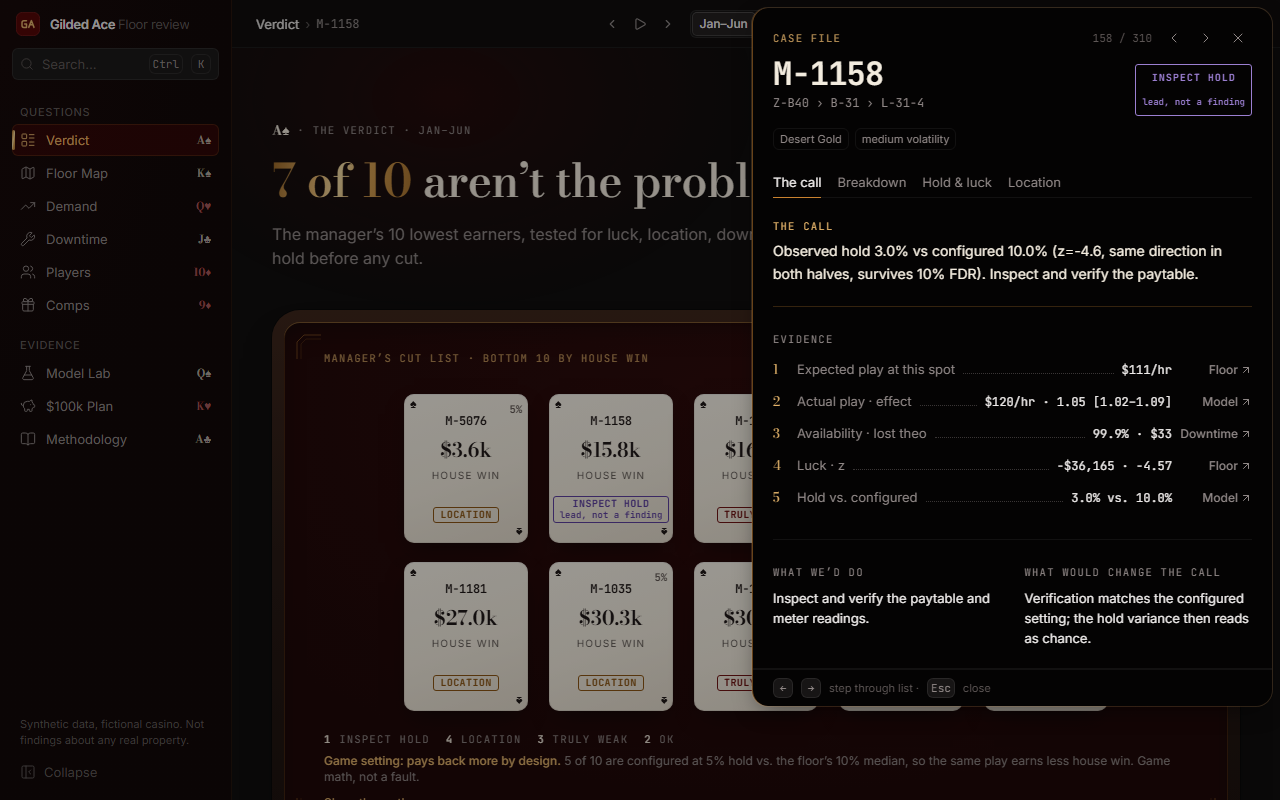
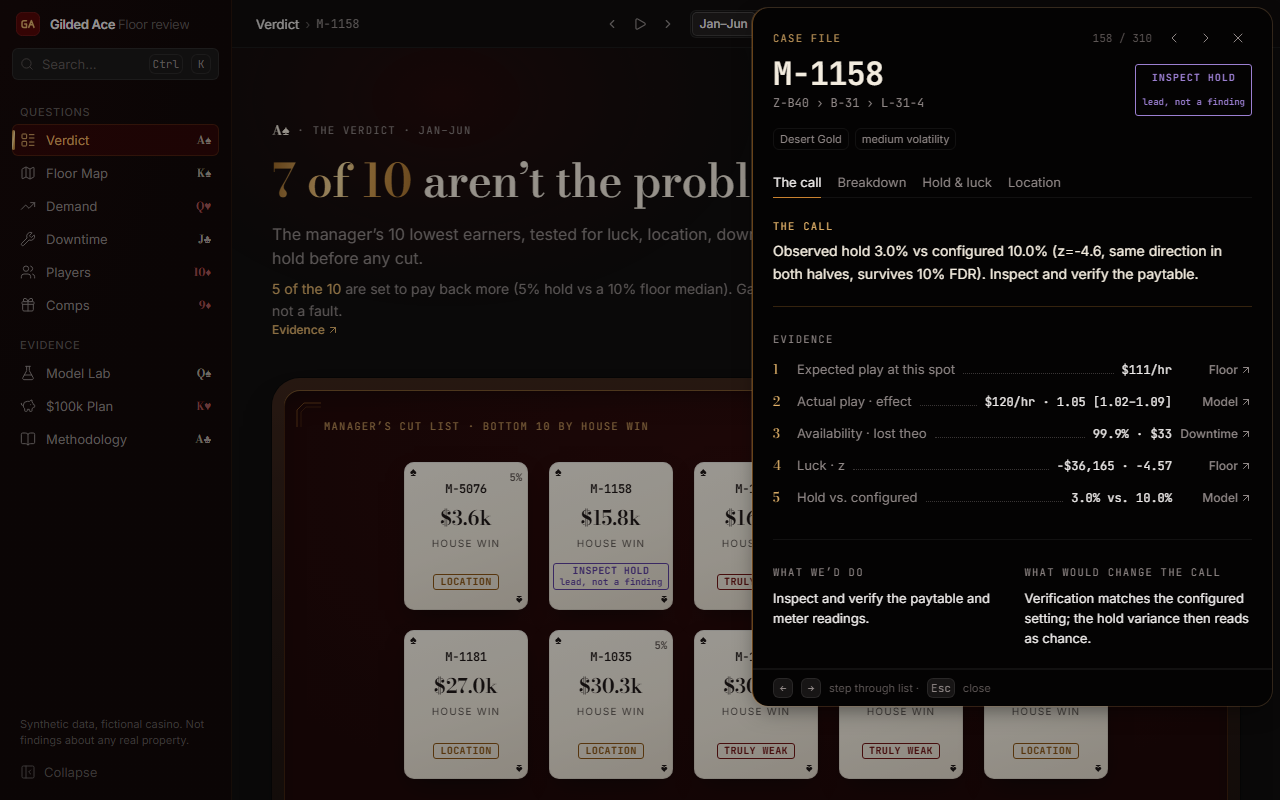
feat: pre-M9 — flip-only first reveal, game-setting hero line, zone ledger, move-test VOI sensitivity

Changed region(s): [[0.1875, 0.3438, 0.9062, 1.0], [0.25, 0.5312, 0.2812, 0.5625]]

diff --git a/web/src/screens/FloorMap.tsx b/web/src/screens/FloorMap.tsx
@@ -162,8 +162,8 @@ export default function FloorMap() {
         eyebrow={`Floor map · ${PERIOD_LONG[f.period] ?? f.period}`}
         title={
           <>
-            <GoldNumber className="font-semibold">{String(notOk)}</GoldNumber> of {scoped.length} machines{f.zone || f.bank ? ` ${scope}` : ""} have
-            a reason besides weak play
+            <GoldNumber className="font-semibold">{String(notOk)}</GoldNumber> of {scoped.length} machines
+            {f.zone || f.bank ? ` ${scope}` : ""} have a reason besides weak play
           </>
         }
         sub="Each mark is a machine. Click a bank to filter every screen, a machine for its case file."
@@ -177,7 +177,7 @@ export default function FloorMap() {
         <svg
           ref={svg}
           viewBox={`0 0 ${W} ${H}`}
-          className="relative block h-[min(56vh,540px)] w-full cursor-grab active:cursor-grabbing"
+          className="relative block h-[min(56vh,540px)] w-full cursor-grab active:cursor-grabbing xl:w-[calc(100%-250px)]"
           role="img"
           aria-label="Casino floor with machines colored by verdict"
           onClick={() => setTip(null)}
@@ -421,6 +421,14 @@ export default function FloorMap() {
           </span>
         </div>
 
+        <ZoneLedger
+          zones={geo.hulls.map((h) => {
+            const zr = all.filter((r) => r.zone_id === h.z);
+            return { z: h.z, name: h.name, n: zr.length, flag: zr.filter((r) => r.verdict !== "ok" && r.verdict !== "truly_weak").length };
+          })}
+          active={f.zone}
+          onPick={(z) => setF({ zone: f.zone === z ? null : z, bank: null })}
+        />
         {/* minimap */}
         <Minimap geo={geo} t={t} />
       </section>
@@ -567,4 +575,50 @@ function Glyph({ v, x, y, r, fill, ring = false }: { v: Verdict; x: number; y: n
     default:
       return <circle cx={x} cy={y} r={r * 0.75} {...common} />;
   }
+}
+
+/** Right rail on wide screens: machines with a reason besides weak play, by zone. Click to filter every screen. */
+function ZoneLedger({
+  zones,
+  active,
+  onPick,
+}: {
+  zones: { z: string; name: string; n: number; flag: number }[];
+  active: string | null;
+  onPick: (z: string) => void;
+}) {
+  const max = Math.max(...zones.map((z) => z.flag), 1);
+  return (
+    <div className="absolute right-6 top-20 hidden w-[218px] xl:block" data-testid="zone-ledger">
+      <p className="label-sc mb-2 text-gold-soft/80">By zone · reason besides weak play</p>
+      <ul className="flex flex-col gap-0.5">
+        {[...zones]
+          .sort((a, b) => b.flag - a.flag)
+          .map((z) => (
+            <li key={z.z}>
+              <button
+                type="button"
+                onClick={() => onPick(z.z)}
+                aria-pressed={active === z.z}
+                className={cn(
+                  "focus-ring grid w-full grid-cols-[1fr_auto] items-center gap-x-2 rounded-sm px-2 py-1 text-left text-xs transition-colors duration-hover",
+                  active === z.z
+                    ? "bg-black/35 text-ivory ring-1 ring-inset ring-gold/30"
+                    : "text-fg-muted hover:bg-black/20 hover:text-fg",
+                )}
+              >
+                <span className="truncate">{z.name}</span>
+                <span className="mono text-ivory">
+                  {z.flag}
+                  <span className="text-fg-subtle">/{z.n}</span>
+                </span>
+                <span className="col-span-2 mt-1 h-[3px] rounded-full bg-black/30" aria-hidden>
+                  <span className="block h-full rounded-full bg-gold-soft/60" style={{ width: `${(z.flag / max) * 100}%` }} />
+                </span>
+              </button>
+            </li>
+          ))}
+      </ul>
+    </div>
+  );
 }

diff --git a/web/src/screens/BudgetPlan.tsx b/web/src/screens/BudgetPlan.tsx
@@ -10,11 +10,27 @@ import { useJson } from "../lib/useData";
 
 type Cmp = { cost_usd: number; theo_mid_usd: number; voi_usd: number; value_usd: number };
 type MoveTest = {
-  sizing: { swaps: number; moves: number; cost_usd: number; halfwidth: number; theo_mid_usd: number }[];
+  sizing: {
+    swaps: number;
+    moves: number;
+    cost_usd: number;
+    halfwidth: number;
+    halfwidth_noise_only: number;
+    halfwidth_tau_peer: number;
+    theo_mid_usd: number;
+  }[];
   power: { post_days: number };
-  pick: { swaps: number };
+  pick: { swaps: number; halfwidth: number; halfwidth_noise_only: number; halfwidth_tau_peer: number };
   voi_usd: number;
-  comparison: { move_test: Cmp; lowest: Cmp & { action_type_id: string }; replaces: string | null; errors: string[]; included: boolean };
+  voi_usd_tau_peer?: number;
+  comparison: {
+    move_test: Cmp & { value_usd_tau_peer?: number };
+    lowest: Cmp & { action_type_id: string };
+    replaces: string | null;
+    errors: string[];
+    included: boolean;
+    included_tau_peer?: boolean;
+  };
 };
 type Budget = {
   rules: { total_usd: number; horizon_days: number; max_action_types: number };
@@ -209,6 +225,20 @@ function MoveTestCompare({ mt }: { mt: MoveTest }) {
         Picked {mt.pick.swaps} swaps: the fewest with ≥ 3 swaps (so no single move carries the estimate) and a planned interval within ±0.2.
         Intervals are simulated from real same-bank play over {mt.power.post_days} operating days, plus machine-to-machine variation fitted
         to the 4 observed moves.
+      </p>
+      <p className="mt-2 text-xs text-fg-muted" data-testid="move-test-width">
+        Planned interval at {mt.pick.swaps} swaps: <span className="mono text-ivory">±{mt.pick.halfwidth.toFixed(2)}</span> with
+        machine-to-machine variation (noise alone ±{mt.pick.halfwidth_noise_only.toFixed(2)}). The information value uses this realistic
+        width.
+        {mt.voi_usd_tau_peer != null && c.move_test.value_usd_tau_peer != null && (
+          <>
+            {" "}
+            With the wider peer-calibrated variation (±{mt.pick.halfwidth_tau_peer.toFixed(2)}), information value is{" "}
+            {fmt.usdK(mt.voi_usd_tau_peer)} and the test {c.included_tau_peer ? "still" : "would no longer"} beat
+            {c.included_tau_peer ? "s" : ""} {c.lowest.action_type_id} ({fmt.usdK(c.move_test.value_usd_tau_peer)} vs.{" "}
+            {fmt.usdK(c.lowest.value_usd)}).
+          </>
+        )}
       </p>
     </Tile>
   );

diff --git a/web/src/screens/Verdict.tsx b/web/src/screens/Verdict.tsx
@@ -105,7 +105,23 @@ export default function Verdict() {
             <GoldNumber className="font-semibold">{`${notWeak.length} of ${mgr.length}`}</GoldNumber> aren&rsquo;t the problem
           </>
         }
-        sub={<>The manager&rsquo;s {mgr.length} lowest earners, tested for luck, location, downtime and hold before any cut.</>}
+        sub={
+          <>
+            The manager&rsquo;s {mgr.length} lowest earners, tested for luck, location, downtime and hold before any cut.
+            {lowN > 0 && rules && (
+              <span className="mt-2 flex flex-wrap items-baseline gap-x-3 text-base" data-testid="game-setting">
+                <span>
+                  <span className="text-gold-soft">
+                    {lowN} of the {mgr.length}
+                  </span>{" "}
+                  are set to pay back more ({fmt.pct(rules.low_hold_design, 0)} hold vs a {fmt.pct(rules.floor_median_hold, 0)} floor
+                  median). Game math, not a fault.
+                </span>
+                <EvidenceLink to="/method" focus="claim-game-setting" label="Evidence" />
+              </span>
+            )}
+          </>
+        }
       >
         <RevealTable
           rows={mgr}
@@ -122,13 +138,6 @@ export default function Verdict() {
                   </span>
                 ))}
               </p>
-              {lowN > 0 && rules && (
-                <p>
-                  <span className="font-medium text-gold-soft">Game setting: pays back more by design.</span> {lowN} of {mgr.length} are
-                  configured at {fmt.pct(rules.low_hold_design, 0)} hold vs. the floor&rsquo;s {fmt.pct(rules.floor_median_hold, 0)} median,
-                  so the same play earns less house win. Game math, not a fault.
-                </p>
-              )}
               <details className="group mt-1 max-w-prose text-sm text-fg-muted">
                 <summary className="focus-ring w-fit cursor-pointer list-none rounded-sm text-xs text-gold-soft hover:text-gold">
                   <span className="group-open:hidden">Show the math</span>

diff --git a/web/src/components/theme/RevealTable.tsx b/web/src/components/theme/RevealTable.tsx
@@ -12,7 +12,8 @@ import { VerdictStamp } from "./VerdictStamp";
 const STAGGER = 0.06;
 
 /**
- * Verdict Reveal: the manager's list dealt face-down onto the felt (60ms stagger), then flipped to show ID,
+ * Verdict Reveal: the manager's list rests face-down on the felt and flips in turn (60ms stagger); "Replay deal"
+ * deals it in from the shoe first. Flipped to show ID,
  * house win and verdict stamp. Cards are buttons from the first frame. "List view" swaps in the row list.
  */
 export function RevealTable({
@@ -97,10 +98,10 @@ export function RevealTable({
                 data-machine-row={r.machine_id}
               >
                 <PlayingCard
-                  deal
+                  deal={deal > 0}
                   delay={i * STAGGER}
                   faceUp={up}
-                  flipDelay={n * STAGGER + 0.25 + i * STAGGER}
+                  flipDelay={deal > 0 ? n * STAGGER + 0.25 + i * STAGGER : 0.15 + i * STAGGER}
                   suit="♠"
                   className="aspect-[5/6] w-full transition-transform duration-hover ease-out group-hover:-translate-y-1"
                 >

diff --git a/pipeline/budget.py b/pipeline/budget.py
@@ -226,12 +226,19 @@ def move_test(full: pd.DataFrame, alt: dict, cat: pd.DataFrame | None = None, se
 
     beta = rng.normal(m0, s0, mt["sims"])
     without = float(np.maximum(v(beta).mean(0), 0).sum())
-    bhat = beta + rng.normal(0, se, len(beta))
-    w = 1 / s0**2 + 1 / se**2
-    pm, ps = (m0 / s0**2 + bhat / se**2) / w, np.sqrt(1 / w)
     grid = stats.norm.ppf(np.linspace(0.01, 0.99, 49))
-    post_v = np.stack([v(pm + ps * g) for g in grid]).mean(0)  # (sims, n_cand) posterior expected value
-    with_info = float((v(beta) * (post_v > 0)).sum(1).mean())
+
+    def voi(se: float) -> tuple[float, float]:  # (value of information, posterior sd) for a test with this slope se
+        bhat = beta + rng.normal(0, se, len(beta))
+        w = 1 / s0**2 + 1 / se**2
+        pm, ps = (m0 / s0**2 + bhat / se**2) / w, np.sqrt(1 / w)
+        post_v = np.stack([v(pm + ps * g) for g in grid]).mean(0)  # (sims, n_cand) posterior expected value
+        return max(0.0, float((v(beta) * (post_v > 0)).sum(1).mean()) - without), float(ps)
+
+    # Realistic se (noise + spot error + model-calibrated tau) drives the plan; peer-calibrated tau is a sensitivity.
+    voi_usd, ps = voi(se)
+    ds_pick = np.repeat([np.log(f.at[m, "spot"] / f.at[w_, "spot"]) for w_, m in P], 2) * np.tile([-1, 1], len(P))
+    voi_peer, _ = voi(float(errs(ds_pick, tau_peer)["full"].std()))
     return {
         "pairs": [
             {"ours": a, "manager": b, "spot_ours": float(f.at[a, "spot"]), "spot_manager": float(f.at[b, "spot"])} for a, b in P
@@ -239,7 +246,8 @@ def move_test(full: pd.DataFrame, alt: dict, cat: pd.DataFrame | None = None, se
         "controls": controls,
         "sizing": rows,
         "pick": pick,
-        "voi_usd": max(0.0, with_info - without),
+        "voi_usd": voi_usd,
+        "voi_usd_tau_peer": voi_peer,
         "power": {
             "post_days": noise["post_days"],
             "noise_sd": noise["sd"],
@@ -373,6 +381,8 @@ def with_move_test(lines: list[Line], mt: dict, cat: pd.DataFrame) -> tuple[list
             "theo_mid_usd": mvl.effect_mid_usd,
             "voi_usd": mt["voi_usd"],
             "value_usd": line_value(mvl, mt["voi_usd"]),
+            "voi_usd_tau_peer": mt.get("voi_usd_tau_peer", mt["voi_usd"]),
+            "value_usd_tau_peer": line_value(mvl, mt.get("voi_usd_tau_peer", mt["voi_usd"])),
         },
         "lowest": {
             "action_type_id": low.action_type_id,
@@ -385,6 +395,7 @@ def with_move_test(lines: list[Line], mt: dict, cat: pd.DataFrame) -> tuple[list
         "errors": validate(cand, cat),
     }
     cmp["included"] = bool(not cmp["errors"] and cmp["move_test"]["value_usd"] > cmp["lowest"]["value_usd"])
+    cmp["included_tau_peer"] = bool(not cmp["errors"] and cmp["move_test"]["value_usd_tau_peer"] > cmp["lowest"]["value_usd"])
     return (cand if cmp["included"] else lines), cmp
 
 

diff --git a/pipeline/run_all.py b/pipeline/run_all.py
@@ -220,6 +220,10 @@ def main() -> dict:
         f"  move test vs lowest-value line {b['action_type_id']} (${b['cost_usd']:,.0f}): theo+VOI ${a['value_usd']:,.0f} vs "
         f"${b['value_usd']:,.0f} -> {'included' if cmp['included'] else 'not included'}"
     )
+    print(
+        f"  sensitivity, peer-calibrated tau: VOI ${mt['voi_usd_tau_peer']:,.0f}, theo+VOI ${a['value_usd_tau_peer']:,.0f} -> "
+        f"{'still included' if cmp['included_tau_peer'] else 'would not be included'}"
+    )
     metrics["move_test"] = {**mt, "comparison": cmp}
     metrics["model1_change"] = expectation_change(full, mgr)
     ch = metrics["model1_change"]

diff --git a/docs/claims_draft.md b/docs/claims_draft.md
@@ -4,5 +4,5 @@ Each claim ships with an EvidenceLink. Numbers regenerate from outputs/metrics.j
 
 1. **Manager's ranking tracks the spot** (approved, verbatim): "The manager's ranking is consistent, but it tracks the spot, not the machine. Jan–Apr house win follows the spot's expected play (ρ 0.61), not machine effect (ρ 0.10). Our ranking is the one that predicts which machines underperform their spot (ρ 0.58 vs. 0.05)." — `persistence_compare` → /model?focus=ranking-compare
 2. **Does play follow the spot?** Probably, but only 4 machines moved: pooled slope 0.90 [0.44, 1.07] (model), 1.23 [0.10, 1.38] (bank peers). Without M-1152: 0.77 / 0.52. The 0.5 decision threshold was set after seeing these estimates, so it is not pre-registered. — `alternatives.moved` → /model?focus=ranking-compare
-3. **Game setting: pays back more by design.** 5 of the manager's 10 are configured at 5% expected hold, the floor's lowest setting (25 of 310 machines floor-wide; floor median 10%; hypergeometric p = 0.0004). At the median setting the same play would carry about 2× the theo ($240k vs. $120k). This is game math: expected hold is set by the paytable, and observed hold matches it. — `low_hold` → /verdict
-4. **Move test sizing.** 3 swaps / 6 moves ($10.8k): planned 90% interval on the slope ±0.14, simulated from same-bank play over 16 operating days, with machine-to-machine variation fitted to the observed moves (±0.29 if fitted to the peer interval). — `move_test.power` → /plan
+3. **Game setting: pays back more by design.** 5 of the manager's 10 are configured at 5% expected hold, the floor's lowest setting (25 of 310 machines floor-wide; floor median 10%; hypergeometric p = 0.0004). At the median setting the same play would carry about 2× the theo ($240k vs. $120k). This is game math: expected hold is set by the paytable, and observed hold matches it. — `low_hold` → / (game-setting line)
+4. **Move test sizing.** 3 swaps / 6 moves ($10.8k): planned 90% interval on the slope ±0.14, simulated from same-bank play over 16 operating days, with machine-to-machine variation fitted to the observed moves (±0.29 if fitted to the peer interval). Information value uses the ±0.14 width: $9,203, so theo + information $12,603 vs. $2,019 for REPLACE-LEASE, which it replaces. With the peer-fitted width: $8,317 / $11,717, still included. — `move_test.power` → /plan
